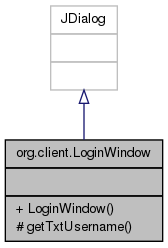
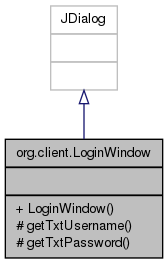
Automated documentation build for changeset 31257d020ef515cd507d7ab4161722871eb70676.

diff --git a/classorg_1_1client_1_1_client_app.html b/classorg_1_1client_1_1_client_app.html
@@ -111,8 +111,10 @@ var searchBox = new SearchBox("searchBox", "search",false,'Search');
 <table class="memberdecls">
 <tr><td colspan="2"><h2><a name="pub-methods"></a>
 Public Member Functions</h2></td></tr>
-<tr><td class="memItemLeft" align="right" valign="top">boolean&#160;</td><td class="memItemRight" valign="bottom"><a class="el" href="classorg_1_1client_1_1_client_app.html#a13cc2485e2b1c286dfa43b6de0ad6f6e">login</a> (String username)</td></tr>
-<tr><td class="memItemLeft" align="right" valign="top">String&#160;</td><td class="memItemRight" valign="bottom"><a class="el" href="classorg_1_1client_1_1_client_app.html#aeb2407339d254fd0a6b69a9567cdd8d2">createLoginMessageForUser</a> (String username)</td></tr>
+<tr><td class="memItemLeft" align="right" valign="top">boolean&#160;</td><td class="memItemRight" valign="bottom"><a class="el" href="classorg_1_1client_1_1_client_app.html#a5449f2003d9c4b7576a0c033573ca6b7">register</a> (String username, String password)</td></tr>
+<tr><td class="memItemLeft" align="right" valign="top">boolean&#160;</td><td class="memItemRight" valign="bottom"><a class="el" href="classorg_1_1client_1_1_client_app.html#a20c33ca8c0f9932544f9126b75637185">login</a> (String username, String password)</td></tr>
+<tr><td class="memItemLeft" align="right" valign="top">String&#160;</td><td class="memItemRight" valign="bottom"><a class="el" href="classorg_1_1client_1_1_client_app.html#a621096e2249a2d51e78e2f0333add35b">createRegistrationMessageForUserPass</a> (String username, String password)</td></tr>
+<tr><td class="memItemLeft" align="right" valign="top">String&#160;</td><td class="memItemRight" valign="bottom"><a class="el" href="classorg_1_1client_1_1_client_app.html#afc1fa56ae5930995e0d8d081d55b394b">createLoginMessageForUserPass</a> (String username, String password)</td></tr>
 <tr><td colspan="2"><h2><a name="pub-static-methods"></a>
 Static Public Member Functions</h2></td></tr>
 <tr><td class="memItemLeft" align="right" valign="top">static void&#160;</td><td class="memItemRight" valign="bottom"><a class="el" href="classorg_1_1client_1_1_client_app.html#a2e36128879f05a907233e30c848b1200">main</a> (String[] args)</td></tr>
@@ -124,16 +126,26 @@ Package Functions</h2></td></tr>
 <hr/><a name="details" id="details"></a><h2>Detailed Description</h2>
 <div class="textblock"><p>The main class for the client application. </p>
 </div><hr/><h2>Member Function Documentation</h2>
-<a class="anchor" id="aeb2407339d254fd0a6b69a9567cdd8d2"></a><!-- doxytag: member="org::client::ClientApp::createLoginMessageForUser" ref="aeb2407339d254fd0a6b69a9567cdd8d2" args="(String username)" -->
+<a class="anchor" id="afc1fa56ae5930995e0d8d081d55b394b"></a><!-- doxytag: member="org::client::ClientApp::createLoginMessageForUserPass" ref="afc1fa56ae5930995e0d8d081d55b394b" args="(String username, String password)" -->
 <div class="memitem">
 <div class="memproto">
       <table class="memname">
         <tr>
-          <td class="memname">String <a class="el" href="classorg_1_1client_1_1_client_app.html#aeb2407339d254fd0a6b69a9567cdd8d2">org.client.ClientApp.createLoginMessageForUser</a> </td>
+          <td class="memname">String <a class="el" href="classorg_1_1client_1_1_client_app.html#afc1fa56ae5930995e0d8d081d55b394b">org.client.ClientApp.createLoginMessageForUserPass</a> </td>
           <td>(</td>
           <td class="paramtype">String&#160;</td>
-          <td class="paramname"><em>username</em></td><td>)</td>
-          <td><code> [inline]</code></td>
+          <td class="paramname"><em>username</em>, </td>
+        </tr>
+        <tr>
+          <td class="paramkey"></td>
+          <td></td>
+          <td class="paramtype">String&#160;</td>
+          <td class="paramname"><em>password</em>&#160;</td>
+        </tr>
+        <tr>
+          <td></td>
+          <td>)</td>
+          <td></td><td><code> [inline]</code></td>
         </tr>
       </table>
 </div>
@@ -141,7 +153,8 @@ Package Functions</h2></td></tr>
 <p>Simple function to craft a message for logging in.</p>
 <dl class="params"><dt><b>Parameters:</b></dt><dd>
   <table class="params">
-    <tr><td class="paramname">username</td><td>- desired username</td></tr>
+    <tr><td class="paramname">username</td><td>- desired username </td></tr>
+    <tr><td class="paramname">password</td><td>- password for username</td></tr>
   </table>
   </dd>
 </dl>
@@ -149,16 +162,62 @@ Package Functions</h2></td></tr>
 
 </div>
 </div>
-<a class="anchor" id="a13cc2485e2b1c286dfa43b6de0ad6f6e"></a><!-- doxytag: member="org::client::ClientApp::login" ref="a13cc2485e2b1c286dfa43b6de0ad6f6e" args="(String username)" -->
+<a class="anchor" id="a621096e2249a2d51e78e2f0333add35b"></a><!-- doxytag: member="org::client::ClientApp::createRegistrationMessageForUserPass" ref="a621096e2249a2d51e78e2f0333add35b" args="(String username, String password)" -->
 <div class="memitem">
 <div class="memproto">
       <table class="memname">
         <tr>
-          <td class="memname">boolean <a class="el" href="classorg_1_1client_1_1_client_app.html#a13cc2485e2b1c286dfa43b6de0ad6f6e">org.client.ClientApp.login</a> </td>
+          <td class="memname">String <a class="el" href="classorg_1_1client_1_1_client_app.html#a621096e2249a2d51e78e2f0333add35b">org.client.ClientApp.createRegistrationMessageForUserPass</a> </td>
           <td>(</td>
           <td class="paramtype">String&#160;</td>
-          <td class="paramname"><em>username</em></td><td>)</td>
-          <td><code> [inline]</code></td>
+          <td class="paramname"><em>username</em>, </td>
+        </tr>
+        <tr>
+          <td class="paramkey"></td>
+          <td></td>
+          <td class="paramtype">String&#160;</td>
+          <td class="paramname"><em>password</em>&#160;</td>
+        </tr>
+        <tr>
+          <td></td>
+          <td>)</td>
+          <td></td><td><code> [inline]</code></td>
+        </tr>
+      </table>
+</div>
+<div class="memdoc">
+<p>Simple function to craft a message for registration.</p>
+<dl class="params"><dt><b>Parameters:</b></dt><dd>
+  <table class="params">
+    <tr><td class="paramname">username</td><td>- desired username </td></tr>
+    <tr><td class="paramname">password</td><td>- password for username</td></tr>
+  </table>
+  </dd>
+</dl>
+<dl class="return"><dt><b>Returns:</b></dt><dd>the proper registration message </dd></dl>
+
+</div>
+</div>
+<a class="anchor" id="a20c33ca8c0f9932544f9126b75637185"></a><!-- doxytag: member="org::client::ClientApp::login" ref="a20c33ca8c0f9932544f9126b75637185" args="(String username, String password)" -->
+<div class="memitem">
+<div class="memproto">
+      <table class="memname">
+        <tr>
+          <td class="memname">boolean <a class="el" href="classorg_1_1client_1_1_client_app.html#a20c33ca8c0f9932544f9126b75637185">org.client.ClientApp.login</a> </td>
+          <td>(</td>
+          <td class="paramtype">String&#160;</td>
+          <td class="paramname"><em>username</em>, </td>
+        </tr>
+        <tr>
+          <td class="paramkey"></td>
+          <td></td>
+          <td class="paramtype">String&#160;</td>
+          <td class="paramname"><em>password</em>&#160;</td>
+        </tr>
+        <tr>
+          <td></td>
+          <td>)</td>
+          <td></td><td><code> [inline]</code></td>
         </tr>
       </table>
 </div>
@@ -166,7 +225,8 @@ Package Functions</h2></td></tr>
 <p>Try logon with a username</p>
 <dl class="params"><dt><b>Parameters:</b></dt><dd>
   <table class="params">
-    <tr><td class="paramname">Username</td><td>- to log on with</td></tr>
+    <tr><td class="paramname">Username</td><td>- to log on with </td></tr>
+    <tr><td class="paramname">Password</td><td>- password associated with username</td></tr>
   </table>
   </dd>
 </dl>
@@ -195,6 +255,42 @@ Package Functions</h2></td></tr>
   </table>
   </dd>
 </dl>
+
+</div>
+</div>
+<a class="anchor" id="a5449f2003d9c4b7576a0c033573ca6b7"></a><!-- doxytag: member="org::client::ClientApp::register" ref="a5449f2003d9c4b7576a0c033573ca6b7" args="(String username, String password)" -->
+<div class="memitem">
+<div class="memproto">
+      <table class="memname">
+        <tr>
+          <td class="memname">boolean <a class="el" href="classorg_1_1client_1_1_client_app.html#a5449f2003d9c4b7576a0c033573ca6b7">org.client.ClientApp.register</a> </td>
+          <td>(</td>
+          <td class="paramtype">String&#160;</td>
+          <td class="paramname"><em>username</em>, </td>
+        </tr>
+        <tr>
+          <td class="paramkey"></td>
+          <td></td>
+          <td class="paramtype">String&#160;</td>
+          <td class="paramname"><em>password</em>&#160;</td>
+        </tr>
+        <tr>
+          <td></td>
+          <td>)</td>
+          <td></td><td><code> [inline]</code></td>
+        </tr>
+      </table>
+</div>
+<div class="memdoc">
+<p>Try registering a new account</p>
+<dl class="params"><dt><b>Parameters:</b></dt><dd>
+  <table class="params">
+    <tr><td class="paramname">Username</td><td>- to log on with </td></tr>
+    <tr><td class="paramname">Password</td><td>- password for user</td></tr>
+  </table>
+  </dd>
+</dl>
+<dl class="return"><dt><b>Returns:</b></dt><dd>true if registration successful, else false </dd></dl>
 
 </div>
 </div>

diff --git a/functions.html b/functions.html
@@ -125,8 +125,11 @@ var searchBox = new SearchBox("searchBox", "search",false,'Search');
 <li>Contacts()
 : <a class="el" href="classorg_1_1server_1_1_contacts.html#a4c66123115fe4e336858e0d3a56efef3">org.server.Contacts</a>
 </li>
-<li>createLoginMessageForUser()
-: <a class="el" href="classorg_1_1client_1_1_client_app.html#aeb2407339d254fd0a6b69a9567cdd8d2">org.client.ClientApp</a>
+<li>createLoginMessageForUserPass()
+: <a class="el" href="classorg_1_1client_1_1_client_app.html#afc1fa56ae5930995e0d8d081d55b394b">org.client.ClientApp</a>
+</li>
+<li>createRegistrationMessageForUserPass()
+: <a class="el" href="classorg_1_1client_1_1_client_app.html#a621096e2249a2d51e78e2f0333add35b">org.client.ClientApp</a>
 </li>
 </ul>
 
@@ -186,6 +189,9 @@ var searchBox = new SearchBox("searchBox", "search",false,'Search');
 <li>getMsgEntry()
 : <a class="el" href="classorg_1_1client_1_1_chat_window.html#a1d90251fb72141ff28fba0c8230048c9">org.client.ChatWindow</a>
 </li>
+<li>getTxtPassword()
+: <a class="el" href="classorg_1_1client_1_1_login_window.html#a16c100401211d87239cc2e654811b9a5">org.client.LoginWindow</a>
+</li>
 <li>getTxtUsername()
 : <a class="el" href="classorg_1_1client_1_1_login_window.html#a99382b9ccb2616123e4f96fd038b309e">org.client.LoginWindow</a>
 </li>
@@ -210,7 +216,7 @@ var searchBox = new SearchBox("searchBox", "search",false,'Search');
 
 <h3><a class="anchor" id="index_l"></a>- l -</h3><ul>
 <li>login()
-: <a class="el" href="classorg_1_1client_1_1_client_app.html#a13cc2485e2b1c286dfa43b6de0ad6f6e">org.client.ClientApp</a>
+: <a class="el" href="classorg_1_1client_1_1_client_app.html#a20c33ca8c0f9932544f9126b75637185">org.client.ClientApp</a>
 </li>
 <li>LoginWindow()
 : <a class="el" href="classorg_1_1client_1_1_login_window.html#ab902b9a99fcac28402274d4adb9fe82c">org.client.LoginWindow</a>
@@ -236,6 +242,9 @@ var searchBox = new SearchBox("searchBox", "search",false,'Search');
 <li>receiveMessage()
 : <a class="el" href="classorg_1_1common_1_1_utils.html#a06e70cd6565243acd649b1a43fcc64e0">org.common.Utils</a>
 </li>
+<li>register()
+: <a class="el" href="classorg_1_1client_1_1_client_app.html#a5449f2003d9c4b7576a0c033573ca6b7">org.client.ClientApp</a>
+</li>
 <li>registerUser()
 : <a class="el" href="classorg_1_1server_1_1_sup_server.html#a89e0542ffb5ab628bac9168173d3a6a9">org.server.SupServer</a>
 </li>
@@ -247,8 +256,8 @@ var searchBox = new SearchBox("searchBox", "search",false,'Search');
 : <a class="el" href="classorg_1_1common_1_1_token_pair.html#aef615d349d76b73677706372251681a5">org.common.TokenPair</a>
 </li>
 <li>run()
-: <a class="el" href="classorg_1_1client_1_1_message_receiver.html#a55316106b6dbc2bcda190bffa622b27e">org.client.MessageReceiver</a>
-, <a class="el" href="classorg_1_1server_1_1_sup_server_1_1_sup_client_handler.html#a6feac25a54fa7973fabd5ca0d1485392">org.server.SupServer.SupClientHandler</a>
+: <a class="el" href="classorg_1_1server_1_1_sup_server_1_1_sup_client_handler.html#a6feac25a54fa7973fabd5ca0d1485392">org.server.SupServer.SupClientHandler</a>
+, <a class="el" href="classorg_1_1client_1_1_message_receiver.html#a55316106b6dbc2bcda190bffa622b27e">org.client.MessageReceiver</a>
 </li>
 </ul>
 

diff --git a/functions_func.html b/functions_func.html
@@ -116,8 +116,11 @@ var searchBox = new SearchBox("searchBox", "search",false,'Search');
 <li>Contacts()
 : <a class="el" href="classorg_1_1server_1_1_contacts.html#a4c66123115fe4e336858e0d3a56efef3">org.server.Contacts</a>
 </li>
-<li>createLoginMessageForUser()
-: <a class="el" href="classorg_1_1client_1_1_client_app.html#aeb2407339d254fd0a6b69a9567cdd8d2">org.client.ClientApp</a>
+<li>createLoginMessageForUserPass()
+: <a class="el" href="classorg_1_1client_1_1_client_app.html#afc1fa56ae5930995e0d8d081d55b394b">org.client.ClientApp</a>
+</li>
+<li>createRegistrationMessageForUserPass()
+: <a class="el" href="classorg_1_1client_1_1_client_app.html#a621096e2249a2d51e78e2f0333add35b">org.client.ClientApp</a>
 </li>
 </ul>
 
@@ -140,6 +143,9 @@ var searchBox = new SearchBox("searchBox", "search",false,'Search');
 </li>
 <li>getMsgEntry()
 : <a class="el" href="classorg_1_1client_1_1_chat_window.html#a1d90251fb72141ff28fba0c8230048c9">org.client.ChatWindow</a>
+</li>
+<li>getTxtPassword()
+: <a class="el" href="classorg_1_1client_1_1_login_window.html#a16c100401211d87239cc2e654811b9a5">org.client.LoginWindow</a>
 </li>
 <li>getTxtUsername()
 : <a class="el" href="classorg_1_1client_1_1_login_window.html#a99382b9ccb2616123e4f96fd038b309e">org.client.LoginWindow</a>
@@ -165,7 +171,7 @@ var searchBox = new SearchBox("searchBox", "search",false,'Search');
 
 <h3><a class="anchor" id="index_l"></a>- l -</h3><ul>
 <li>login()
-: <a class="el" href="classorg_1_1client_1_1_client_app.html#a13cc2485e2b1c286dfa43b6de0ad6f6e">org.client.ClientApp</a>
+: <a class="el" href="classorg_1_1client_1_1_client_app.html#a20c33ca8c0f9932544f9126b75637185">org.client.ClientApp</a>
 </li>
 <li>LoginWindow()
 : <a class="el" href="classorg_1_1client_1_1_login_window.html#ab902b9a99fcac28402274d4adb9fe82c">org.client.LoginWindow</a>
@@ -188,6 +194,9 @@ var searchBox = new SearchBox("searchBox", "search",false,'Search');
 <li>receiveMessage()
 : <a class="el" href="classorg_1_1common_1_1_utils.html#a06e70cd6565243acd649b1a43fcc64e0">org.common.Utils</a>
 </li>
+<li>register()
+: <a class="el" href="classorg_1_1client_1_1_client_app.html#a5449f2003d9c4b7576a0c033573ca6b7">org.client.ClientApp</a>
+</li>
 <li>registerUser()
 : <a class="el" href="classorg_1_1server_1_1_sup_server.html#a89e0542ffb5ab628bac9168173d3a6a9">org.server.SupServer</a>
 </li>
@@ -196,8 +205,8 @@ var searchBox = new SearchBox("searchBox", "search",false,'Search');
 , <a class="el" href="classorg_1_1server_1_1_contacts.html#abcff9deb1e3718d20b52e241cfe626b2">org.server.Contacts</a>
 </li>
 <li>run()
-: <a class="el" href="classorg_1_1client_1_1_message_receiver.html#a55316106b6dbc2bcda190bffa622b27e">org.client.MessageReceiver</a>
-, <a class="el" href="classorg_1_1server_1_1_sup_server_1_1_sup_client_handler.html#a6feac25a54fa7973fabd5ca0d1485392">org.server.SupServer.SupClientHandler</a>
+: <a class="el" href="classorg_1_1server_1_1_sup_server_1_1_sup_client_handler.html#a6feac25a54fa7973fabd5ca0d1485392">org.server.SupServer.SupClientHandler</a>
+, <a class="el" href="classorg_1_1client_1_1_message_receiver.html#a55316106b6dbc2bcda190bffa622b27e">org.client.MessageReceiver</a>
 </li>
 </ul>
 

diff --git a/classorg_1_1client_1_1_client_app-members.html b/classorg_1_1client_1_1_client_app-members.html
@@ -89,9 +89,11 @@ var searchBox = new SearchBox("searchBox", "search",false,'Search');
 </div><!--header-->
 <div class="contents">
 This is the complete list of members for <a class="el" href="classorg_1_1client_1_1_client_app.html">org.client.ClientApp</a>, including all inherited members.<table>
-  <tr class="memlist"><td><a class="el" href="classorg_1_1client_1_1_client_app.html#aeb2407339d254fd0a6b69a9567cdd8d2">createLoginMessageForUser</a>(String username)</td><td><a class="el" href="classorg_1_1client_1_1_client_app.html">org.client.ClientApp</a></td><td><code> [inline]</code></td></tr>
-  <tr class="memlist"><td><a class="el" href="classorg_1_1client_1_1_client_app.html#a13cc2485e2b1c286dfa43b6de0ad6f6e">login</a>(String username)</td><td><a class="el" href="classorg_1_1client_1_1_client_app.html">org.client.ClientApp</a></td><td><code> [inline]</code></td></tr>
+  <tr class="memlist"><td><a class="el" href="classorg_1_1client_1_1_client_app.html#afc1fa56ae5930995e0d8d081d55b394b">createLoginMessageForUserPass</a>(String username, String password)</td><td><a class="el" href="classorg_1_1client_1_1_client_app.html">org.client.ClientApp</a></td><td><code> [inline]</code></td></tr>
+  <tr class="memlist"><td><a class="el" href="classorg_1_1client_1_1_client_app.html#a621096e2249a2d51e78e2f0333add35b">createRegistrationMessageForUserPass</a>(String username, String password)</td><td><a class="el" href="classorg_1_1client_1_1_client_app.html">org.client.ClientApp</a></td><td><code> [inline]</code></td></tr>
+  <tr class="memlist"><td><a class="el" href="classorg_1_1client_1_1_client_app.html#a20c33ca8c0f9932544f9126b75637185">login</a>(String username, String password)</td><td><a class="el" href="classorg_1_1client_1_1_client_app.html">org.client.ClientApp</a></td><td><code> [inline]</code></td></tr>
   <tr class="memlist"><td><a class="el" href="classorg_1_1client_1_1_client_app.html#a2e36128879f05a907233e30c848b1200">main</a>(String[] args)</td><td><a class="el" href="classorg_1_1client_1_1_client_app.html">org.client.ClientApp</a></td><td><code> [inline, static]</code></td></tr>
+  <tr class="memlist"><td><a class="el" href="classorg_1_1client_1_1_client_app.html#a5449f2003d9c4b7576a0c033573ca6b7">register</a>(String username, String password)</td><td><a class="el" href="classorg_1_1client_1_1_client_app.html">org.client.ClientApp</a></td><td><code> [inline]</code></td></tr>
   <tr class="memlist"><td><a class="el" href="classorg_1_1client_1_1_client_app.html#a1f1eabadf37145c2873ca6f83be393aa">sendChatMessage</a>(String username, String msg)</td><td><a class="el" href="classorg_1_1client_1_1_client_app.html">org.client.ClientApp</a></td><td><code> [inline, package]</code></td></tr>
   <tr class="memlist"><td><a class="el" href="classorg_1_1client_1_1_client_app.html#af27ab52f28f4dec261c21a73cbea64c2">start</a>()</td><td><a class="el" href="classorg_1_1client_1_1_client_app.html">org.client.ClientApp</a></td><td><code> [inline, package]</code></td></tr>
 </table></div><!-- contents -->

diff --git a/classorg_1_1client_1_1_login_window.html b/classorg_1_1client_1_1_login_window.html
@@ -128,6 +128,7 @@ Public Member Functions</h2></td></tr>
 <tr><td colspan="2"><h2><a name="pro-methods"></a>
 Protected Member Functions</h2></td></tr>
 <tr><td class="memItemLeft" align="right" valign="top">JTextField&#160;</td><td class="memItemRight" valign="bottom"><a class="el" href="classorg_1_1client_1_1_login_window.html#a99382b9ccb2616123e4f96fd038b309e">getTxtUsername</a> ()</td></tr>
+<tr><td class="memItemLeft" align="right" valign="top">JTextField&#160;</td><td class="memItemRight" valign="bottom"><a class="el" href="classorg_1_1client_1_1_login_window.html#a16c100401211d87239cc2e654811b9a5">getTxtPassword</a> ()</td></tr>
 </table>
 <hr/><h2>Constructor &amp; Destructor Documentation</h2>
 <a class="anchor" id="ab902b9a99fcac28402274d4adb9fe82c"></a><!-- doxytag: member="org::client::LoginWindow::LoginWindow" ref="ab902b9a99fcac28402274d4adb9fe82c" args="(final ClientApp clientApp)" -->
@@ -155,6 +156,22 @@ Protected Member Functions</h2></td></tr>
 </div>
 </div>
 <hr/><h2>Member Function Documentation</h2>
+<a class="anchor" id="a16c100401211d87239cc2e654811b9a5"></a><!-- doxytag: member="org::client::LoginWindow::getTxtPassword" ref="a16c100401211d87239cc2e654811b9a5" args="()" -->
+<div class="memitem">
+<div class="memproto">
+      <table class="memname">
+        <tr>
+          <td class="memname">JTextField <a class="el" href="classorg_1_1client_1_1_login_window.html#a16c100401211d87239cc2e654811b9a5">org.client.LoginWindow.getTxtPassword</a> </td>
+          <td>(</td>
+          <td class="paramname"></td><td>)</td>
+          <td><code> [inline, protected]</code></td>
+        </tr>
+      </table>
+</div>
+<div class="memdoc">
+
+</div>
+</div>
 <a class="anchor" id="a99382b9ccb2616123e4f96fd038b309e"></a><!-- doxytag: member="org::client::LoginWindow::getTxtUsername" ref="a99382b9ccb2616123e4f96fd038b309e" args="()" -->
 <div class="memitem">
 <div class="memproto">

diff --git a/search/all_63.js b/search/all_63.js
@@ -7,8 +7,9 @@ var searchData=
   ['clientapp',['ClientApp',['../classorg_1_1client_1_1_client_app.html',1,'org::client']]],
   ['clientapp_2ejava',['ClientApp.java',['../_client_app_8java.html',1,'']]],
   ['clientname',['clientname',['../classorg_1_1server_1_1_sup_server_1_1_sup_client_handler.html#a5e9bd4d2cf221a5b4843a2db9dae553a',1,'org::server::SupServer::SupClientHandler']]],
-  ['contacts',['Contacts',['../classorg_1_1server_1_1_contacts.html',1,'org::server']]],
   ['contacts',['Contacts',['../classorg_1_1server_1_1_contacts.html#a4c66123115fe4e336858e0d3a56efef3',1,'org::server::Contacts']]],
+  ['contacts',['Contacts',['../classorg_1_1server_1_1_contacts.html',1,'org::server']]],
   ['contacts_2ejava',['Contacts.java',['../_contacts_8java.html',1,'']]],
-  ['createloginmessageforuser',['createLoginMessageForUser',['../classorg_1_1client_1_1_client_app.html#aeb2407339d254fd0a6b69a9567cdd8d2',1,'org::client::ClientApp']]]
+  ['createloginmessageforuserpass',['createLoginMessageForUserPass',['../classorg_1_1client_1_1_client_app.html#afc1fa56ae5930995e0d8d081d55b394b',1,'org::client::ClientApp']]],
+  ['createregistrationmessageforuserpass',['createRegistrationMessageForUserPass',['../classorg_1_1client_1_1_client_app.html#a621096e2249a2d51e78e2f0333add35b',1,'org::client::ClientApp']]]
 ];

diff --git a/classorg_1_1client_1_1_login_window-members.html b/classorg_1_1client_1_1_login_window-members.html
@@ -89,6 +89,7 @@ var searchBox = new SearchBox("searchBox", "search",false,'Search');
 </div><!--header-->
 <div class="contents">
 This is the complete list of members for <a class="el" href="classorg_1_1client_1_1_login_window.html">org.client.LoginWindow</a>, including all inherited members.<table>
+  <tr class="memlist"><td><a class="el" href="classorg_1_1client_1_1_login_window.html#a16c100401211d87239cc2e654811b9a5">getTxtPassword</a>()</td><td><a class="el" href="classorg_1_1client_1_1_login_window.html">org.client.LoginWindow</a></td><td><code> [inline, protected]</code></td></tr>
   <tr class="memlist"><td><a class="el" href="classorg_1_1client_1_1_login_window.html#a99382b9ccb2616123e4f96fd038b309e">getTxtUsername</a>()</td><td><a class="el" href="classorg_1_1client_1_1_login_window.html">org.client.LoginWindow</a></td><td><code> [inline, protected]</code></td></tr>
   <tr class="memlist"><td><a class="el" href="classorg_1_1client_1_1_login_window.html#ab902b9a99fcac28402274d4adb9fe82c">LoginWindow</a>(final ClientApp clientApp)</td><td><a class="el" href="classorg_1_1client_1_1_login_window.html">org.client.LoginWindow</a></td><td><code> [inline]</code></td></tr>
 </table></div><!-- contents -->

diff --git a/search/all_67.js b/search/all_67.js
@@ -6,6 +6,7 @@ var searchData=
   ['geterrormessage',['getErrorMessage',['../classorg_1_1client_1_1_chat_window.html#a8887a6c39414e5b471864b3f02800a4b',1,'org::client::ChatWindow']]],
   ['getinstance',['getInstance',['../classorg_1_1server_1_1_contacts.html#a6767632665a32a7ae568b4dedbd0f2d1',1,'org::server::Contacts']]],
   ['getmsgentry',['getMsgEntry',['../classorg_1_1client_1_1_chat_window.html#a1d90251fb72141ff28fba0c8230048c9',1,'org::client::ChatWindow']]],
+  ['gettxtpassword',['getTxtPassword',['../classorg_1_1client_1_1_login_window.html#a16c100401211d87239cc2e654811b9a5',1,'org::client::LoginWindow']]],
   ['gettxtusername',['getTxtUsername',['../classorg_1_1client_1_1_login_window.html#a99382b9ccb2616123e4f96fd038b309e',1,'org::client::LoginWindow']]],
   ['getuserlist',['getUserList',['../classorg_1_1server_1_1_contacts.html#aa6283ca893904857e6508cc9f9b89c4e',1,'org::server::Contacts']]],
   ['getwriterlist',['getWriterList',['../classorg_1_1server_1_1_contacts.html#ae12511834474377ec1230d350e27716a',1,'org::server::Contacts']]]

diff --git a/search/functions_67.js b/search/functions_67.js
@@ -6,6 +6,7 @@ var searchData=
   ['geterrormessage',['getErrorMessage',['../classorg_1_1client_1_1_chat_window.html#a8887a6c39414e5b471864b3f02800a4b',1,'org::client::ChatWindow']]],
   ['getinstance',['getInstance',['../classorg_1_1server_1_1_contacts.html#a6767632665a32a7ae568b4dedbd0f2d1',1,'org::server::Contacts']]],
   ['getmsgentry',['getMsgEntry',['../classorg_1_1client_1_1_chat_window.html#a1d90251fb72141ff28fba0c8230048c9',1,'org::client::ChatWindow']]],
+  ['gettxtpassword',['getTxtPassword',['../classorg_1_1client_1_1_login_window.html#a16c100401211d87239cc2e654811b9a5',1,'org::client::LoginWindow']]],
   ['gettxtusername',['getTxtUsername',['../classorg_1_1client_1_1_login_window.html#a99382b9ccb2616123e4f96fd038b309e',1,'org::client::LoginWindow']]],
   ['getuserlist',['getUserList',['../classorg_1_1server_1_1_contacts.html#aa6283ca893904857e6508cc9f9b89c4e',1,'org::server::Contacts']]],
   ['getwriterlist',['getWriterList',['../classorg_1_1server_1_1_contacts.html#ae12511834474377ec1230d350e27716a',1,'org::server::Contacts']]]

diff --git a/search/all_72.js b/search/all_72.js
@@ -2,6 +2,7 @@ var searchData=
 [
   ['reader',['reader',['../classorg_1_1server_1_1_sup_server_1_1_sup_client_handler.html#af819db373dcaf72378a61a2b62f8e171',1,'org::server::SupServer::SupClientHandler']]],
   ['receivemessage',['receiveMessage',['../classorg_1_1common_1_1_utils.html#a06e70cd6565243acd649b1a43fcc64e0',1,'org::common::Utils']]],
+  ['register',['register',['../classorg_1_1client_1_1_client_app.html#a5449f2003d9c4b7576a0c033573ca6b7',1,'org::client::ClientApp']]],
   ['registeruser',['registerUser',['../classorg_1_1server_1_1_sup_server.html#a89e0542ffb5ab628bac9168173d3a6a9',1,'org::server::SupServer']]],
   ['removecontact',['removeContact',['../classorg_1_1server_1_1_contacts.html#abcff9deb1e3718d20b52e241cfe626b2',1,'org::server::Contacts.removeContact()'],['../classorg_1_1server_1_1_sup_server.html#abf151640a2709a27bf3806055d57c1b4',1,'org::server::SupServer.removeContact()']]],
   ['rest',['rest',['../classorg_1_1common_1_1_token_pair.html#aef615d349d76b73677706372251681a5',1,'org::common::TokenPair']]],

diff --git a/search/functions_72.js b/search/functions_72.js
@@ -1,6 +1,7 @@
 var searchData=
 [
   ['receivemessage',['receiveMessage',['../classorg_1_1common_1_1_utils.html#a06e70cd6565243acd649b1a43fcc64e0',1,'org::common::Utils']]],
+  ['register',['register',['../classorg_1_1client_1_1_client_app.html#a5449f2003d9c4b7576a0c033573ca6b7',1,'org::client::ClientApp']]],
   ['registeruser',['registerUser',['../classorg_1_1server_1_1_sup_server.html#a89e0542ffb5ab628bac9168173d3a6a9',1,'org::server::SupServer']]],
   ['removecontact',['removeContact',['../classorg_1_1server_1_1_contacts.html#abcff9deb1e3718d20b52e241cfe626b2',1,'org::server::Contacts.removeContact()'],['../classorg_1_1server_1_1_sup_server.html#abf151640a2709a27bf3806055d57c1b4',1,'org::server::SupServer.removeContact()']]],
   ['run',['run',['../classorg_1_1server_1_1_sup_server_1_1_sup_client_handler.html#a6feac25a54fa7973fabd5ca0d1485392',1,'org::server::SupServer::SupClientHandler.run()'],['../classorg_1_1client_1_1_message_receiver.html#a55316106b6dbc2bcda190bffa622b27e',1,'org::client::MessageReceiver.run()']]]

diff --git a/search/functions_63.js b/search/functions_63.js
@@ -2,5 +2,6 @@ var searchData=
 [
   ['chatwindow',['ChatWindow',['../classorg_1_1client_1_1_chat_window.html#a3cef74248715caf594b231ba3e290358',1,'org::client::ChatWindow']]],
   ['contacts',['Contacts',['../classorg_1_1server_1_1_contacts.html#a4c66123115fe4e336858e0d3a56efef3',1,'org::server::Contacts']]],
-  ['createloginmessageforuser',['createLoginMessageForUser',['../classorg_1_1client_1_1_client_app.html#aeb2407339d254fd0a6b69a9567cdd8d2',1,'org::client::ClientApp']]]
+  ['createloginmessageforuserpass',['createLoginMessageForUserPass',['../classorg_1_1client_1_1_client_app.html#afc1fa56ae5930995e0d8d081d55b394b',1,'org::client::ClientApp']]],
+  ['createregistrationmessageforuserpass',['createRegistrationMessageForUserPass',['../classorg_1_1client_1_1_client_app.html#a621096e2249a2d51e78e2f0333add35b',1,'org::client::ClientApp']]]
 ];
